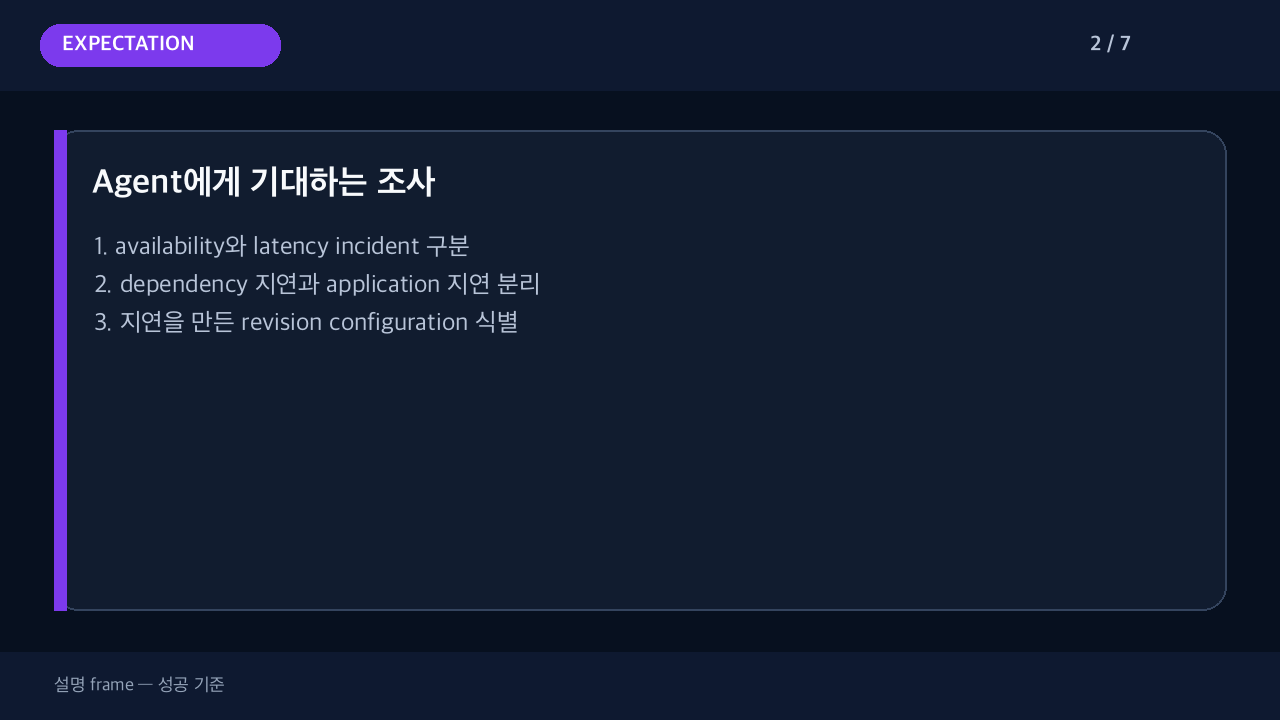
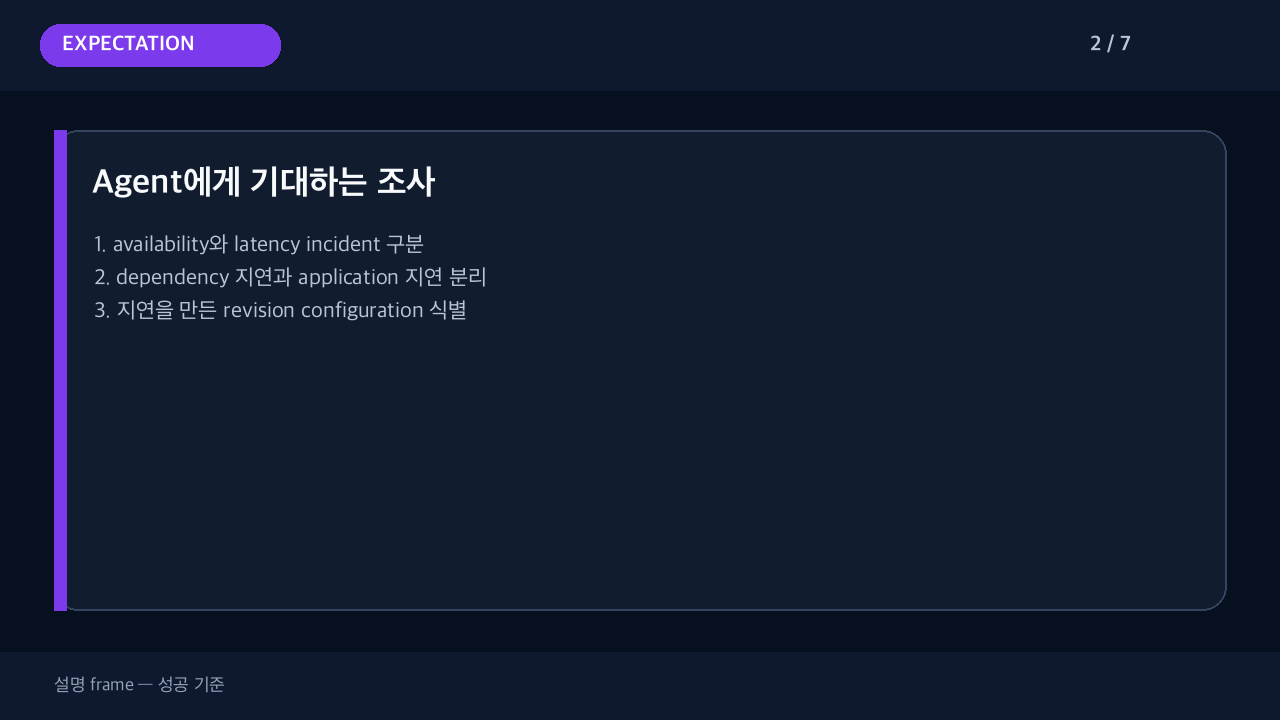
docs(monitor): integrate SRE ticket and email workflow

Changed region(s): [[0.0625, 0.3056, 0.4062, 0.4583]]

diff --git a/monitor/sre-agent-event-lab/assets/notifications/s1-incident-summary.html b/monitor/sre-agent-event-lab/assets/notifications/s1-incident-summary.html
@@ -1,0 +1,55 @@
+<!doctype html>
+<html lang="ko">
+<head>
+  <meta charset="utf-8">
+  <title>SRE incident summary</title>
+  <style>
+    body { margin: 0; background: #eef2f7; color: #172033; font-family: Arial, "Apple SD Gothic Neo", sans-serif; }
+    .mail { max-width: 760px; margin: 32px auto; background: white; border-radius: 14px; overflow: hidden; box-shadow: 0 8px 30px #16203522; }
+    .header { padding: 28px 34px; background: #0e1930; color: white; }
+    .badge { display: inline-block; padding: 6px 12px; border-radius: 16px; background: #16a34a; font-weight: 700; }
+    .content { padding: 30px 34px 36px; }
+    .grid { display: grid; grid-template-columns: 1fr 1fr; gap: 12px; }
+    .card { padding: 16px; border: 1px solid #dbe3ef; border-radius: 10px; background: #f8fafc; }
+    h1 { margin: 14px 0 4px; font-size: 26px; }
+    h2 { margin-top: 28px; font-size: 18px; color: #0f4c81; }
+    p, li { line-height: 1.55; }
+    .footer { padding: 20px 34px; background: #f3f6fa; color: #64748b; font-size: 13px; }
+  </style>
+</head>
+<body>
+  <main class="mail">
+    <header class="header">
+      <span class="badge">RESOLVED · DRAFT</span>
+      <h1>Order API HTTP 500 incident</h1>
+      <p>Azure SRE Agent investigation summary</p>
+    </header>
+    <section class="content">
+      <div class="grid">
+        <div class="card"><strong>Severity</strong><br>Sev2</div>
+        <div class="card"><strong>Service</strong><br>ca-sre-event-lab-vnet</div>
+        <div class="card"><strong>Alert fired</strong><br>2026-08-12T08:07:56.261581Z</div>
+        <div class="card"><strong>Conclusion</strong><br>2026-08-12T08:10:21.971535Z</div>
+      </div>
+      <h2>Customer impact</h2>
+      <p>120 <code>GET /api/orders</code> requests returned HTTP 500.</p>
+      <h2>Root cause and evidence</h2>
+      <p>Root cause confirmed: Container App ca-sre-event-lab-vnet deployed revision 0000010 at 08:06:16 UTC with FAILURE_MODE=http500.<br><br>- Affected resource: Application Insights appi-sre-event-lab-95933ae5<br>- Exact onset: 2026-08-12 08:06:52.147 UTC<br>- Impact: 120 HTTP 500s on GET /api/orders through 08:06:53.382 UTC. The alert fired at 08:07:56 UTC.<br>- Evidence: Activity Log shows the Container App update began at 08:06:08.954 UTC; the active failing revision had FAILURE_MODE=http500. Trace evidence shows a 500 response without an external dependency timeout pattern.<br>- Mitigation: Already applied externally: revision 0000011 is provisioned, receives 100% traffic, and has FAILURE_MODE=none. A post-change telemetry sample contained no 5xx responses.<br><br>No resource changes were made by this investigation.</p>
+      <h2>Mitigation and current status</h2>
+      <p>A healthy revision with <code>FAILURE_MODE=none</code> restored service. The Agent remained in Review mode and did not modify Azure resources.</p>
+      <h2>Ticket</h2>
+      <p><a href="https://github.com/hellices/devguidesample/issues/43">https://github.com/hellices/devguidesample/issues/43</a></p>
+      <h2>Follow-up</h2>
+      <ol>
+        <li>Reject lab-only fault settings in non-lab deployments.</li>
+        <li>Keep the response plan in Review mode while accuracy is monitored.</li>
+        <li>Retain this investigation in the Agent knowledge base.</li>
+      </ol>
+      <p><a href="https://github.com/hellices/devguidesample/blob/main/docs/superpowers/reports/2026-08-12-azure-sre-agent-event-testing-results.md">Open detailed validation appendix</a></p>
+    </section>
+    <footer class="footer">
+      Draft artifact — not sent. Agent thread 6dd0e640-d969-46cb-a976-7c81b66fcadc
+    </footer>
+  </main>
+</body>
+</html>

diff --git a/monitor/sre-agent-event-lab/scripts/tests/test_notifications.py b/monitor/sre-agent-event-lab/scripts/tests/test_notifications.py
@@ -43,8 +43,8 @@ def timeline():
             "state": "conclusion",
             "title": "Root cause",
             "summary": (
-                "Root cause confirmed: Container App ca-sre-event-lab-vnet "
-                "revision 0000010 had FAILURE_MODE=http500. "
+                "**Root cause confirmed:** Container App `ca-sre-event-lab-vnet` "
+                "revision `0000010` had `FAILURE_MODE=http500`. "
                 "120 GET /api/orders requests failed. "
                 "A healthy revision restored service."
             ),
@@ -88,6 +88,7 @@ def test_generate_notifications_creates_ticket_and_email(tmp_path):
     assert "https://github.com/hellices/devguidesample/issues/123" in message.get_body(
         preferencelist=("html",)
     ).get_content()
+    assert "**" not in (tmp_path / "s1-incident-summary.html").read_text()
     assert outputs["issue"].endswith("s1-github-issue.md")
 
 

diff --git a/monitor/sre-agent-event-lab/scripts/generate_notifications.py b/monitor/sre-agent-event-lab/scripts/generate_notifications.py
@@ -24,6 +24,10 @@ def sanitize(value: str) -> str:
     return CALLBACK_SIGNATURE_PATTERN.sub(r"\1[REDACTED]", value)
 
 
+def strip_markdown(value: str) -> str:
+    return sanitize(value).replace("**", "").replace("`", "")
+
+
 def find_event(timeline: list[dict[str, Any]], state: str, last: bool = False):
     matches = [event for event in timeline if event.get("state") == state]
     if not matches:
@@ -90,7 +94,9 @@ def email_html(
     report_url: str,
     issue_url: str,
 ) -> str:
-    summary = html.escape(sanitize(conclusion["summary"]))
+    summary = html.escape(strip_markdown(conclusion["summary"])).replace(
+        "\n", "<br>"
+    )
     ticket = (
         f'<a href="{html.escape(issue_url)}">{html.escape(issue_url)}</a>'
         if issue_url

diff --git a/monitor/sre-agent-event-lab/scripts/render_storyboard.py b/monitor/sre-agent-event-lab/scripts/render_storyboard.py
@@ -216,8 +216,8 @@ def render_frame(frame: dict[str, str], number: int, total: int) -> Image.Image:
 
     y = 232
     for line in wrap(frame["body"], width=62, limit=11):
-        draw.text((94, y), line, font=load_font(25), fill=MUTED)
-        y += 38
+        draw.text((94, y), line, font=load_font(22), fill=MUTED)
+        y += 33
 
     draw.rectangle((0, 652, WIDTH, HEIGHT), fill="#0E1930")
     draw.text((54, 674), frame["footer"], font=load_font(18), fill="#94A3B8")

diff --git a/monitor/azure-sre-agent.md b/monitor/azure-sre-agent.md
@@ -204,7 +204,8 @@ Current status:
 
 분석 결과는 사람이 다시 작성하지 않고 ticket template으로 변환할 수 있다.
 
-- [실제 GitHub Issue 예시](sre-agent-event-lab/assets/notifications/github-issue.json)
+- [실제 GitHub Issue #43](https://github.com/hellices/devguidesample/issues/43)
+- [Issue metadata](sre-agent-event-lab/assets/notifications/github-issue.json)
 - [Issue 화면 캡처](sre-agent-event-lab/assets/notifications/github-issue.png)
 - [Issue body 원문](sre-agent-event-lab/assets/notifications/s1-github-issue.md)
 
